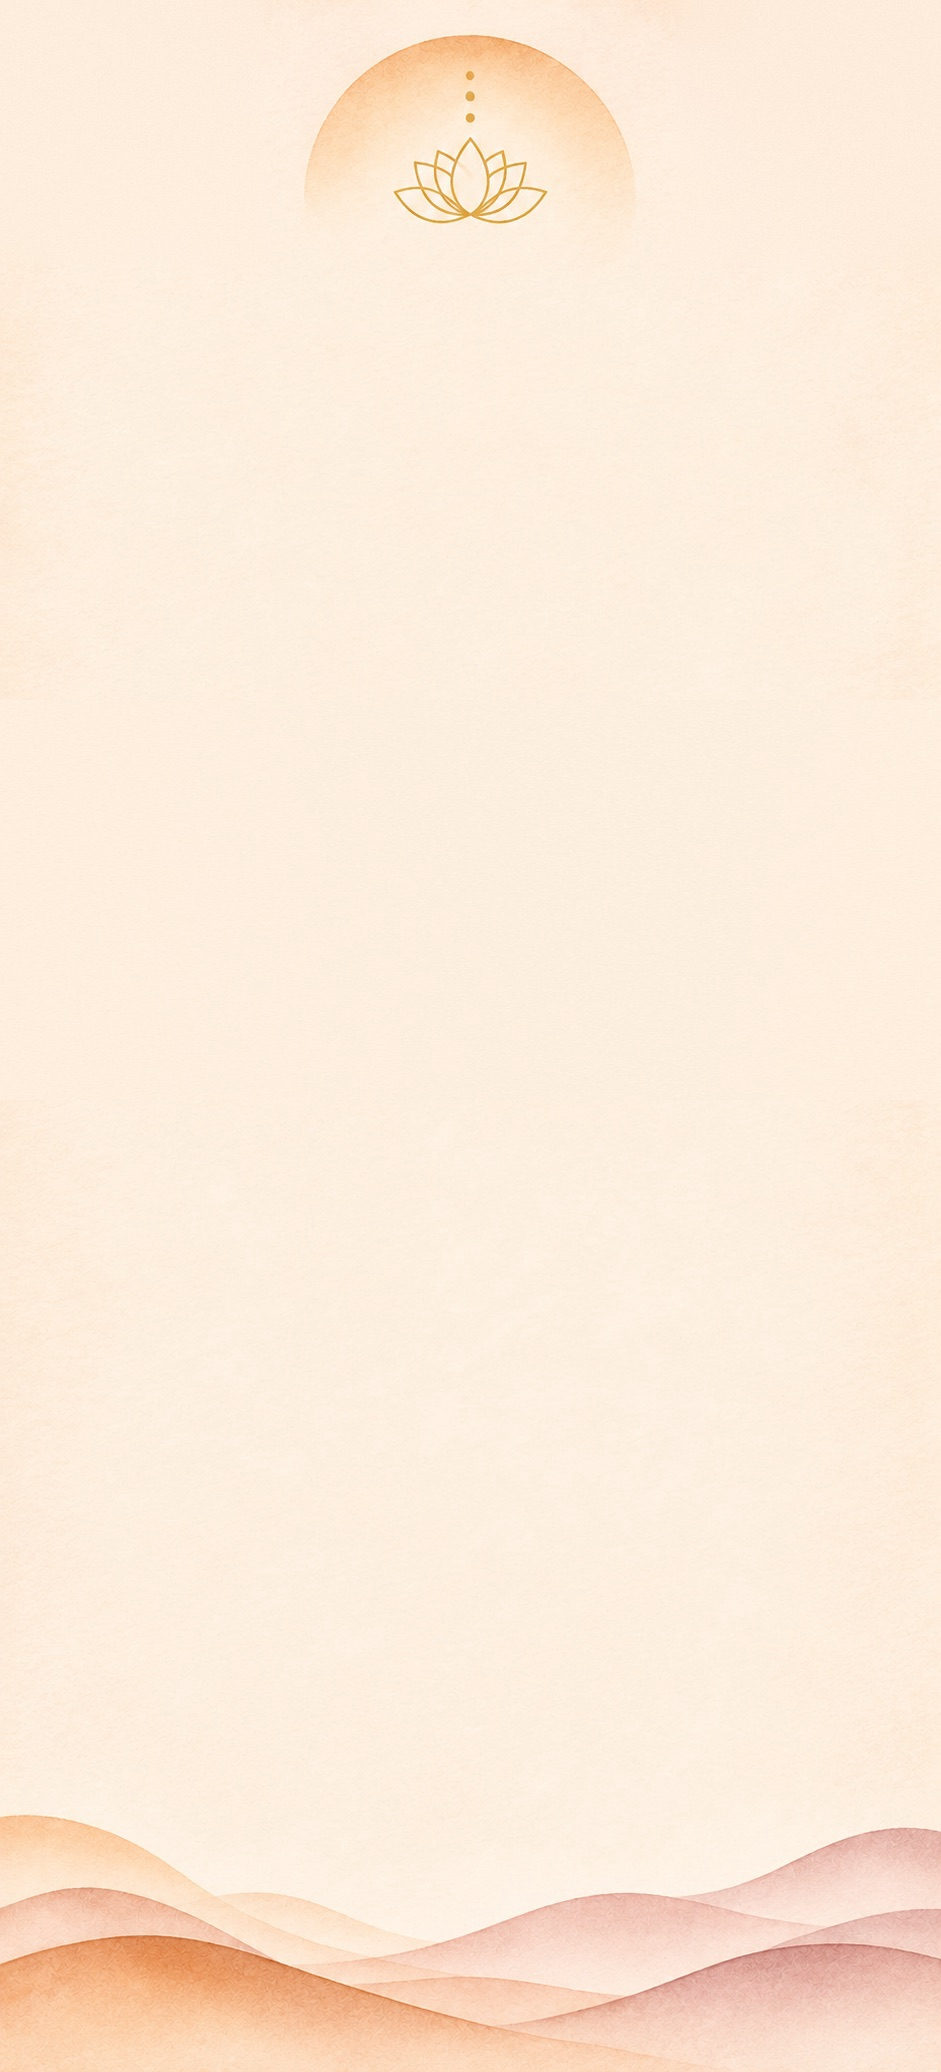
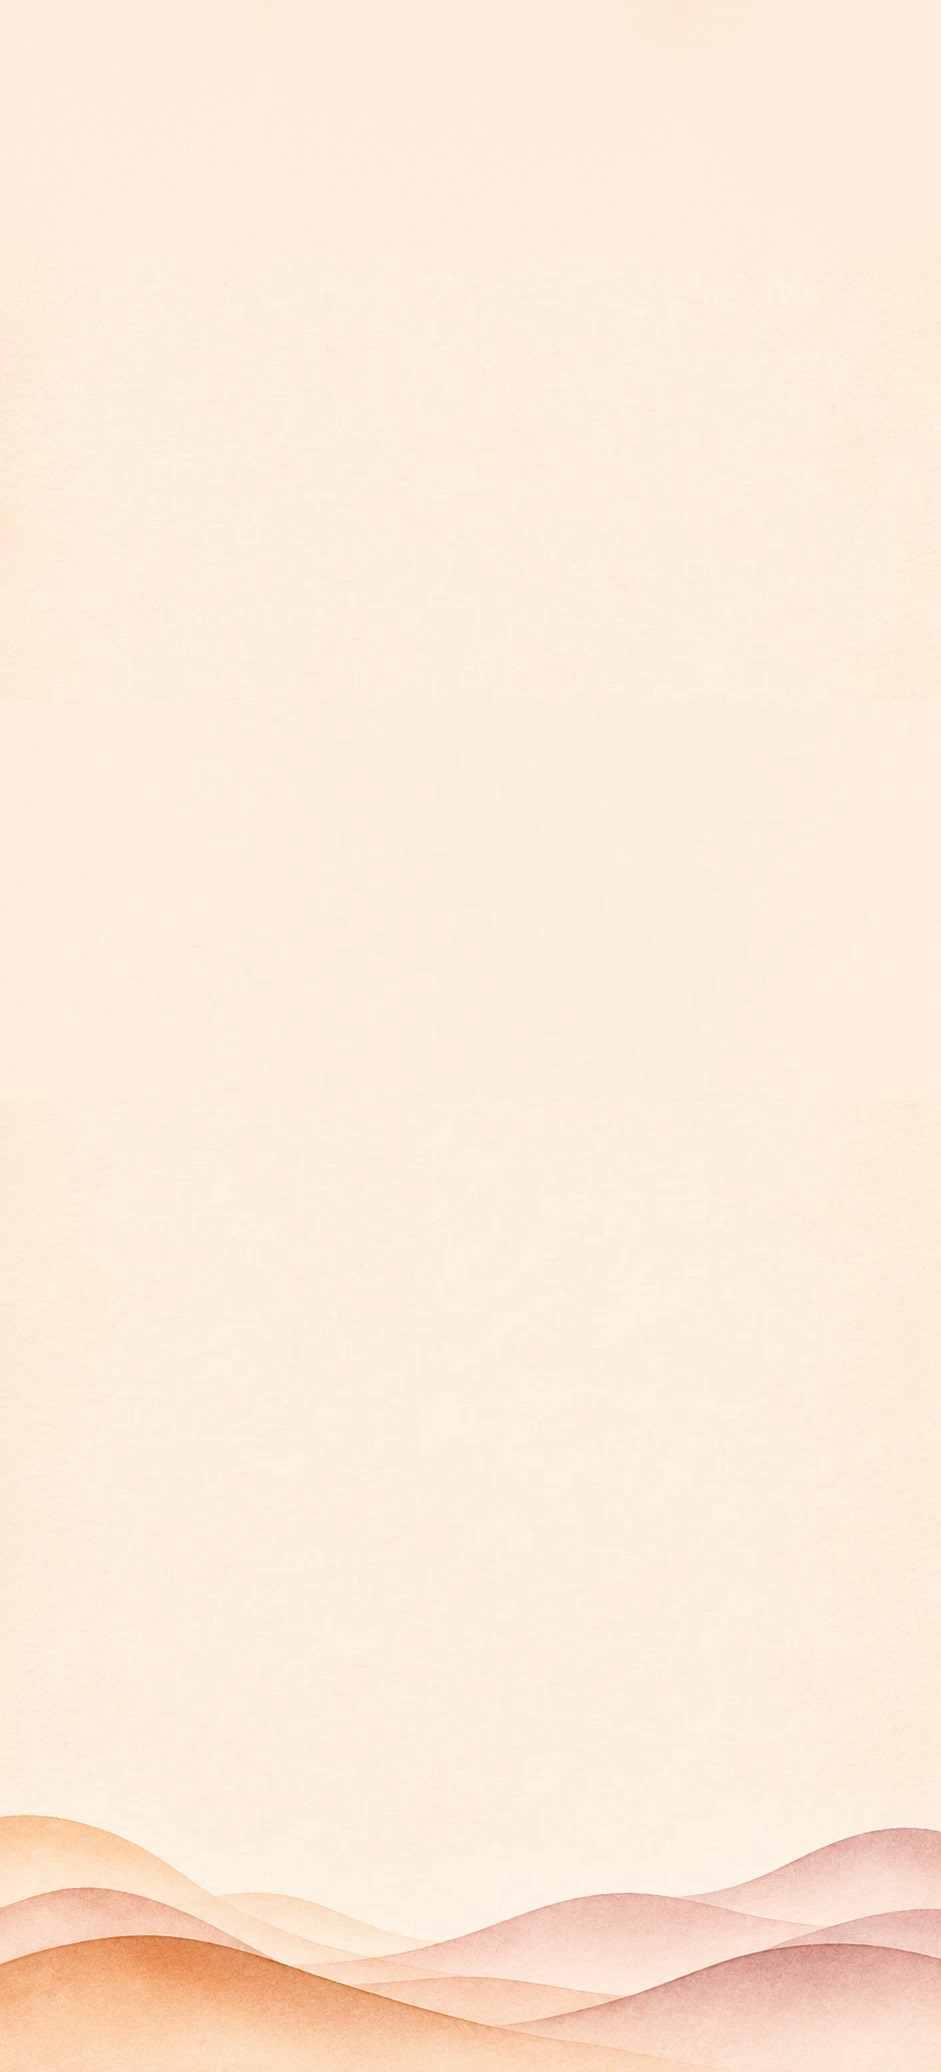
Check-in questions: remove the lotus and glow from the background

Changed region(s): [[0.3082, 0.0, 0.678, 0.1236]]

diff --git a/app/quiz.tsx b/app/quiz.tsx
@@ -18,7 +18,7 @@ const OPTION_LABELS = ['Not at all', 'Somewhat', 'Mostly', 'Fully'] as const;
 const artwork = require('../assets/questions-bg.jpg');
 const ART_W = 941;
 const ART_H = 2072;
-const LOTUS_BOTTOM = 230;  // the small gold lotus ends here
+const LOTUS_BOTTOM = 185;  // the questions start below this (the artwork is plain paper above it)
 const HILLS_TOP = 1815;    // the watercolour hills begin here
 const PAPER = '#FDEEDE';   // the artwork's paper colour (shows only beside the art on short screens)
 
